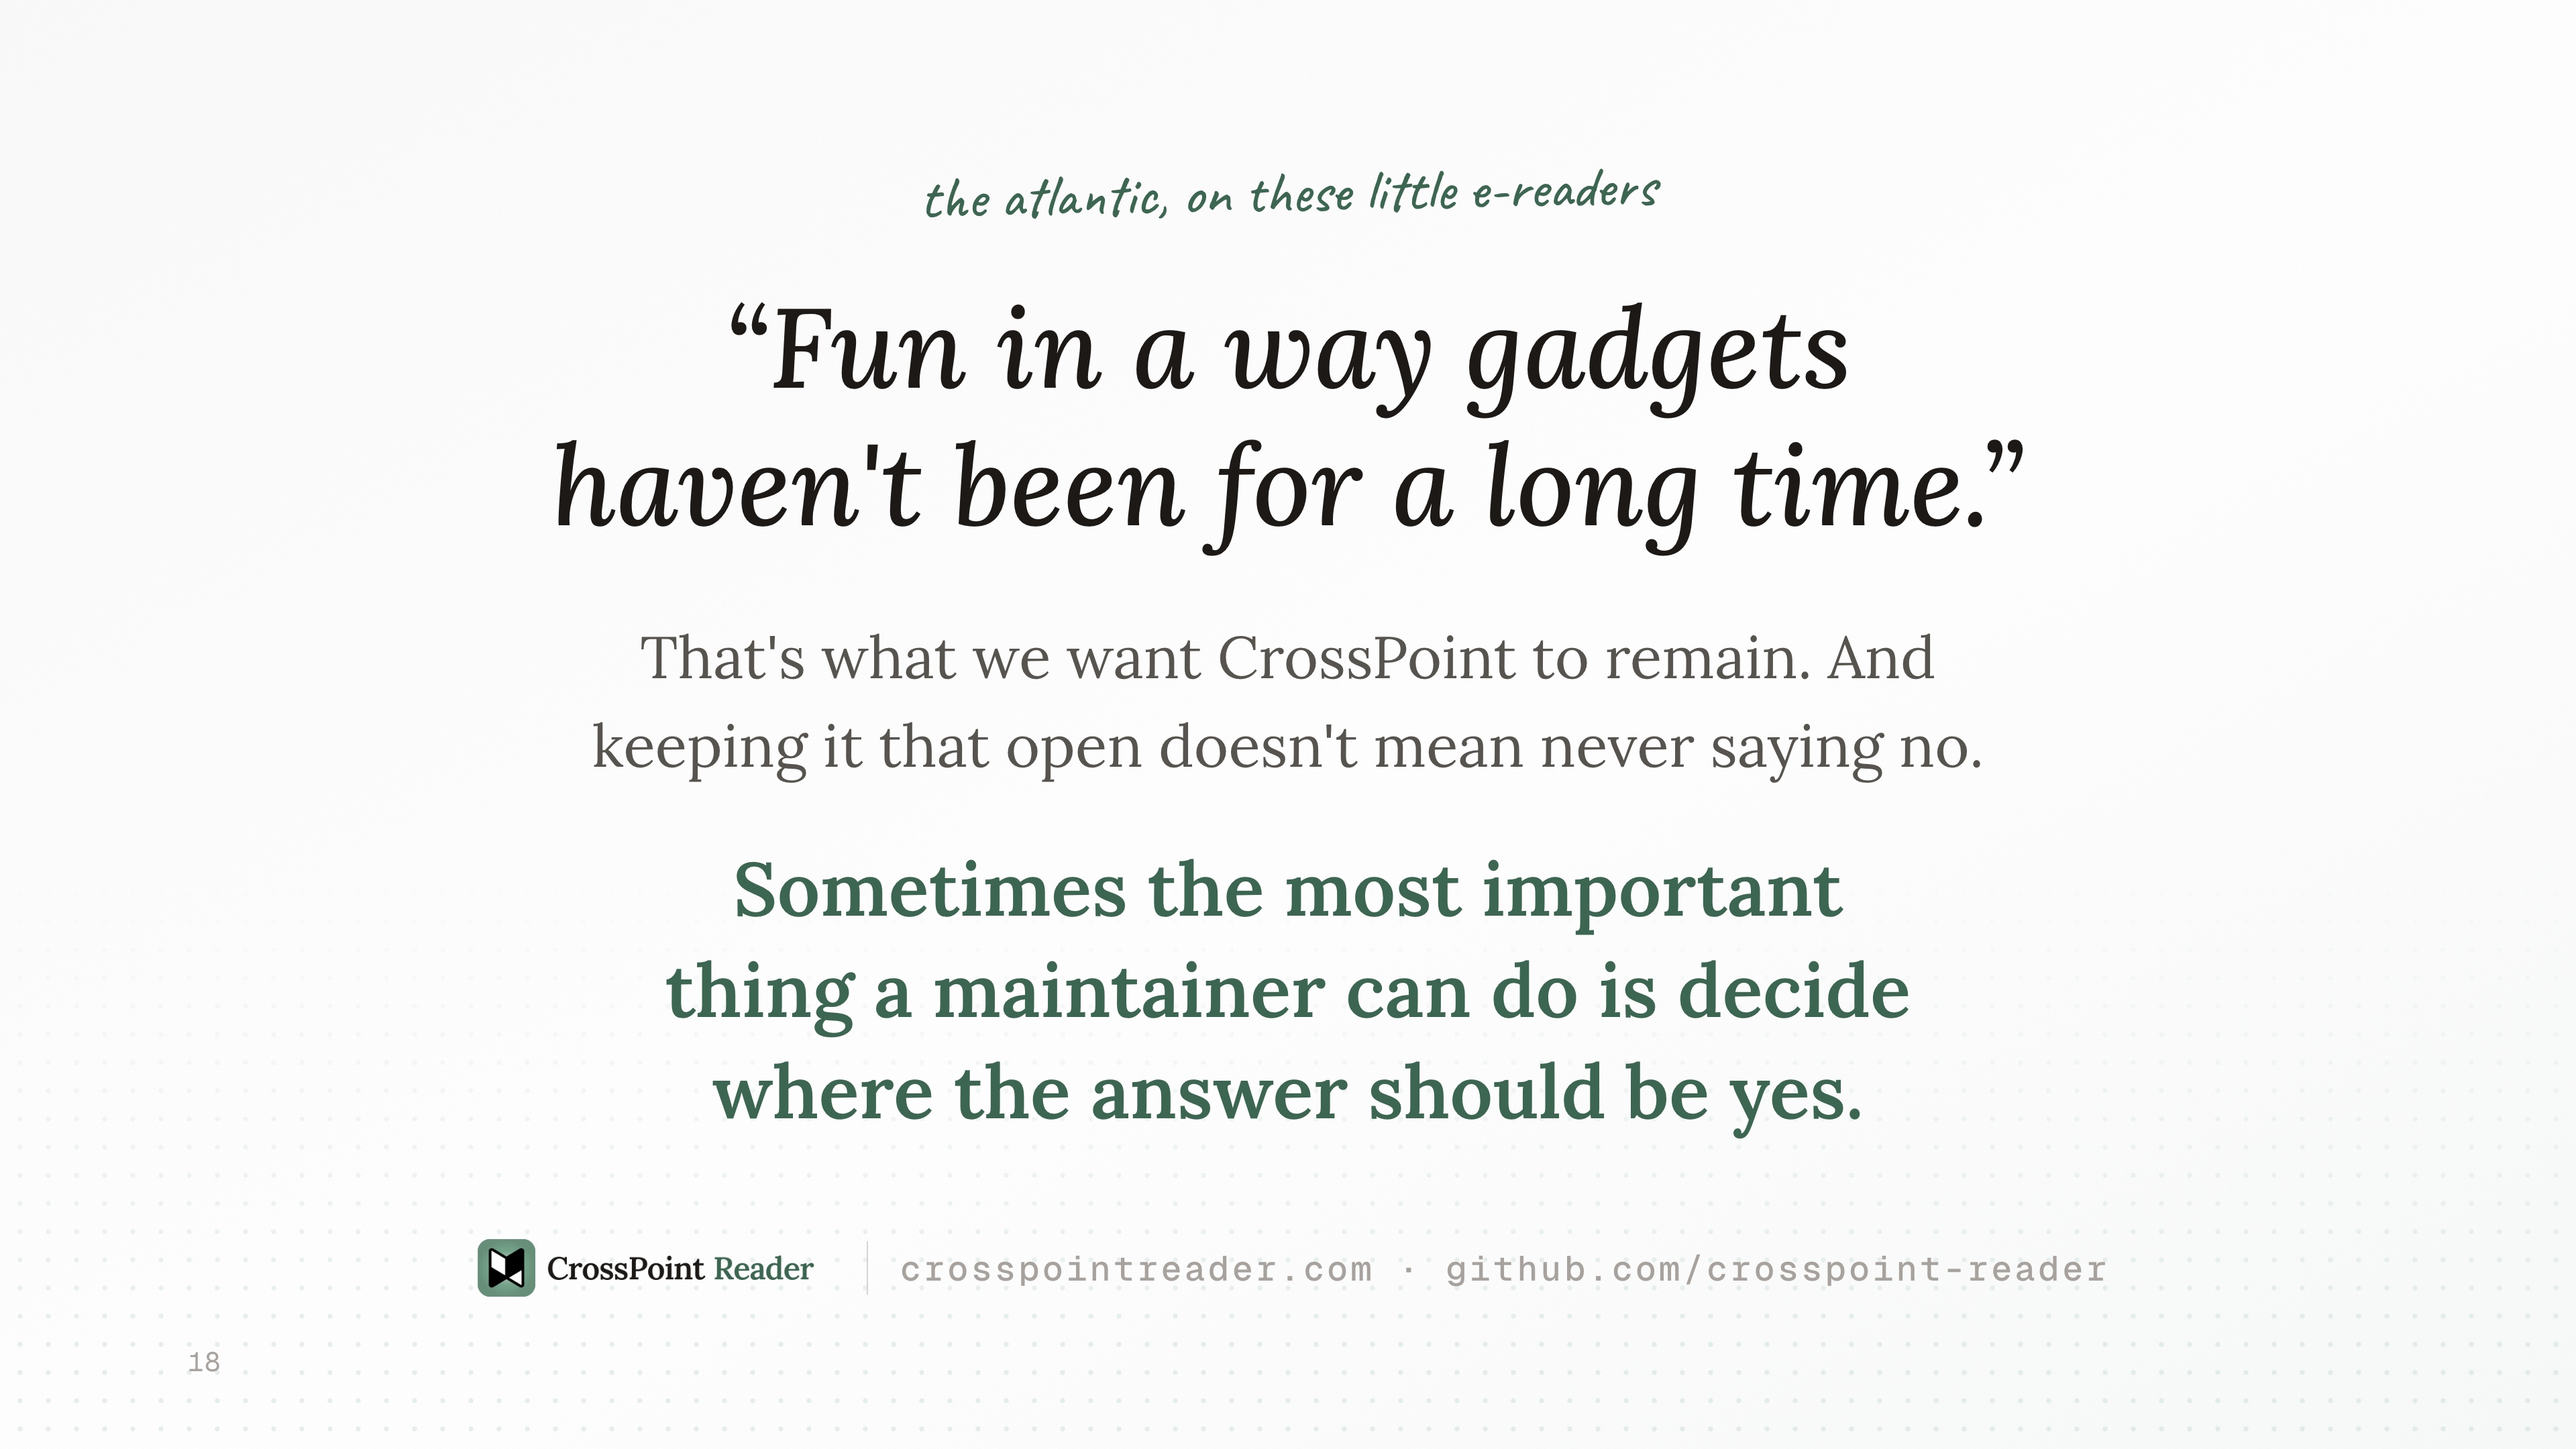
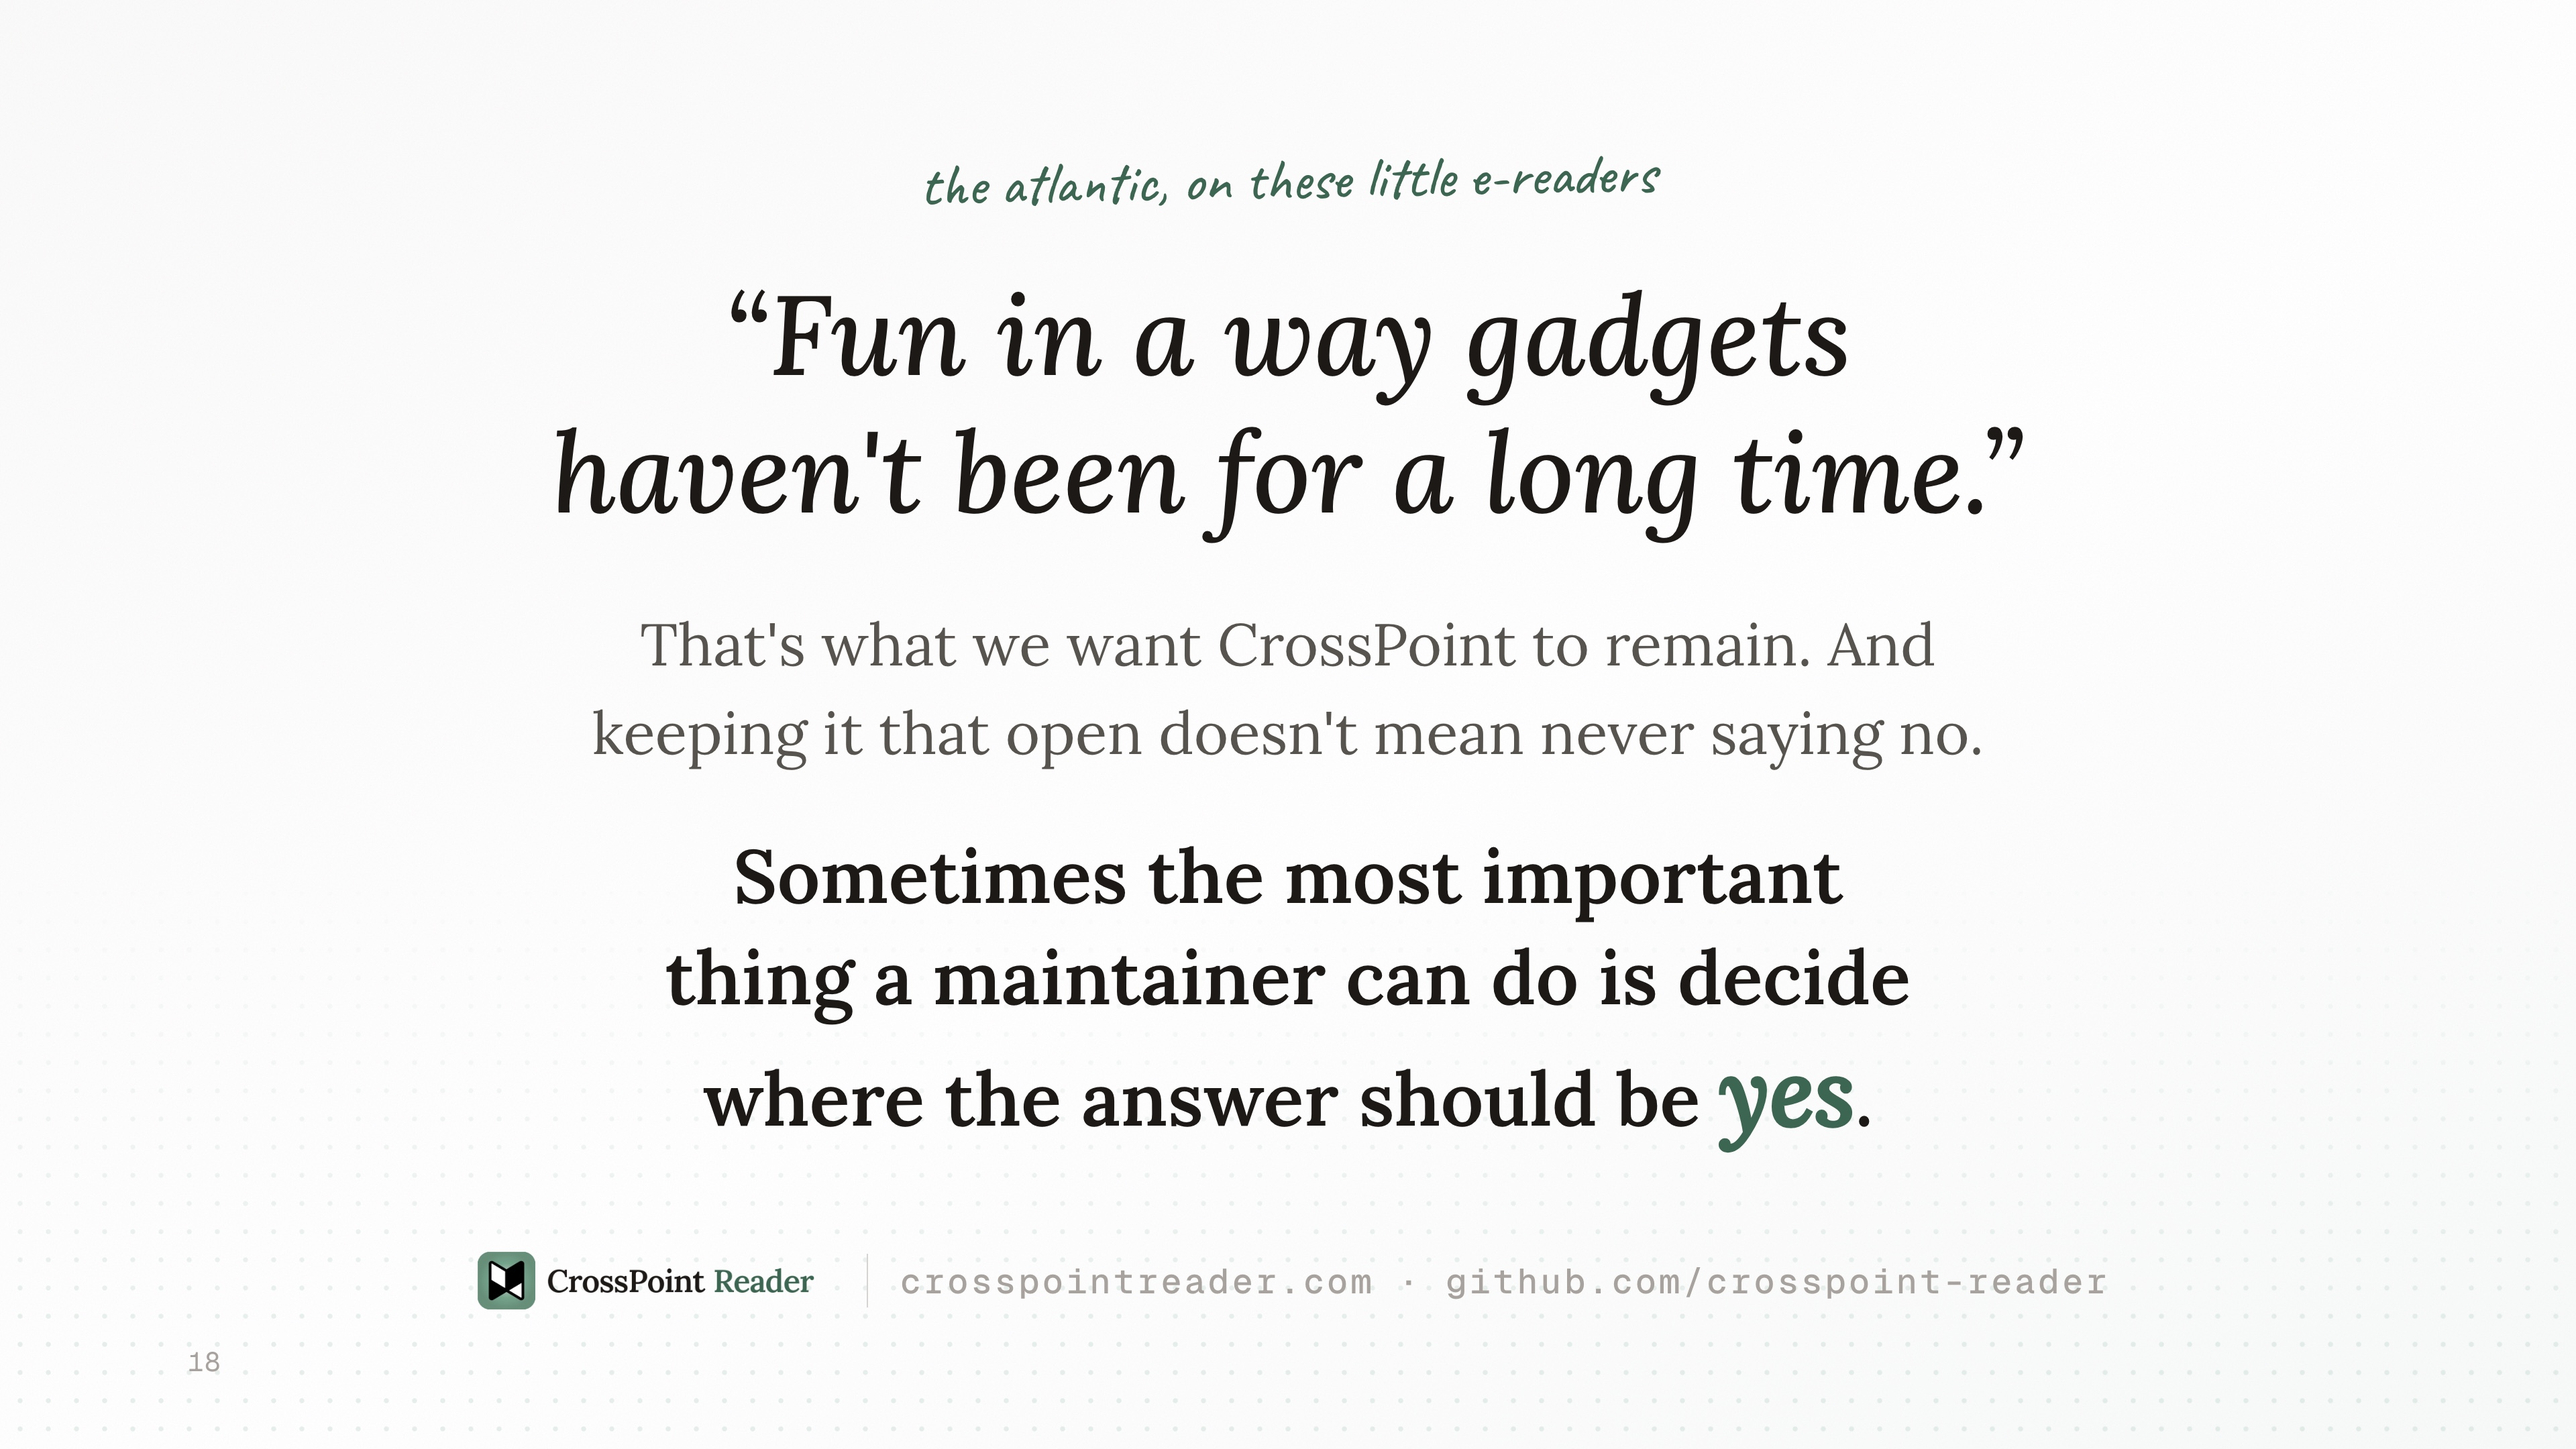
Emphasize 'yes' in maintainer quote with styling
Change the quote text color from brand-600 to stone-900 and add emphasis styling to the word 'yes' with brand-600 color and larger font size for visual impact.

diff --git a/deck/index.html b/deck/index.html
@@ -654,8 +654,8 @@
     <p style="font-family:var(--font-display); font-size:44px; line-height:1.5; max-width:28em; margin-top:44px; color:var(--stone-600); text-wrap:balance;">
       That's what we want CrossPoint to remain. And keeping it that open doesn't mean never saying no.
     </p>
-    <p style="font-family:var(--font-display); font-weight:600; font-size:56px; line-height:1.35; max-width:22em; margin-top:36px; color:var(--brand-600); text-wrap:balance;">
-      Sometimes the most important thing a maintainer can do is decide where the answer should be yes.
+    <p style="font-family:var(--font-display); font-weight:600; font-size:56px; line-height:1.35; max-width:22em; margin-top:36px; color:var(--stone-900); text-wrap:balance;">
+      Sometimes the most important thing a maintainer can do is decide where the answer should be <em style="color:var(--brand-600); font-size:1.25em;">yes</em>.
     </p>
     <div style="margin-top:64px; display:flex; align-items:center; gap:24px;">
       <img src="../crosspoint-reader-logo.png" alt="CrossPoint Reader" style="height:60px;" />
